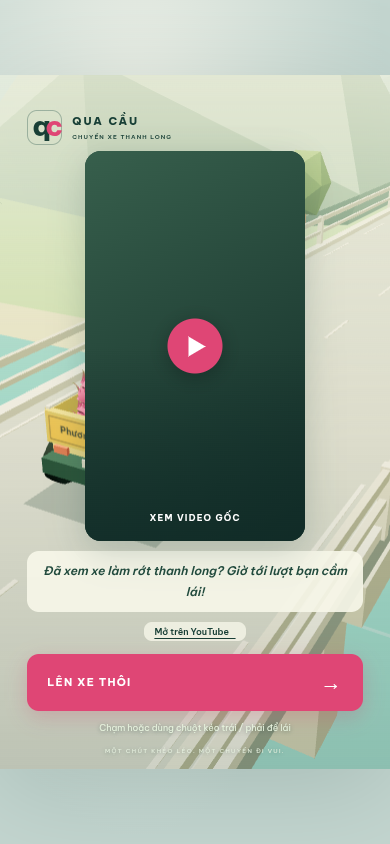
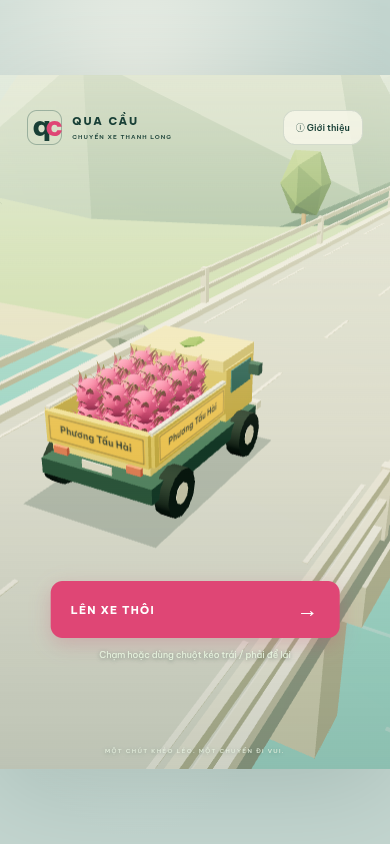
Move video to an about screen and clear the home view

diff --git a/src/main.ts b/src/main.ts
@@ -422,11 +422,27 @@ function resetInput() {
   input.left=input.right=false;suppressClick ||= !!drag;const pointer=drag?.id;drag=undefined;
   if(pointer!==undefined&&$('game').hasPointerCapture(pointer))$('game').releasePointerCapture(pointer);
 }
+let showingAbout=false;
+function setAbout(open: boolean) {
+  if(mode!=='intro')return;
+  showingAbout=open;
+  if(!open)stopIntroVideo();
+  $('game').classList.toggle('showing-about',open);
+  $('about-screen').classList.toggle('hidden',!open);
+  ['intro','topbar','footer'].forEach(id=>$(id).classList.toggle('hidden',open));
+  $(open?'about-back':'about-open').focus();
+}
+function leaveAbout() {
+  stopIntroVideo();showingAbout=false;
+  $('game').classList.remove('showing-about');
+  $('about-screen').classList.add('hidden');
+  $('topbar').classList.remove('hidden');
+}
 function stopIntroVideo() {
   $('video-card').querySelector('iframe')?.remove();$('video-play').classList.remove('hidden');
 }
 function playIntroVideo() {
-  if(mode!=='intro'||$('video-card').querySelector('iframe'))return;
+  if(mode!=='intro'||!showingAbout||$('video-card').querySelector('iframe'))return;
   const frame=document.createElement('iframe');
   frame.src='https://www.youtube-nocookie.com/embed/m5MuKcskVaU?autoplay=1&playsinline=1&rel=0';
   frame.title='Video xe chở thanh long';frame.allow='autoplay; encrypted-media; picture-in-picture; fullscreen';
@@ -435,8 +451,8 @@ function playIntroVideo() {
 }
 function startGame() {
   if(!ready) return;
-  stopIntroVideo();resetPhysics(); mode='playing';
-  ['intro','end-screen','pause-screen','footer'].forEach(id=>$(id).classList.add('hidden'));
+  leaveAbout();resetPhysics(); mode='playing';
+  ['intro','about-open','end-screen','pause-screen','footer'].forEach(id=>$(id).classList.add('hidden'));
   ['hud','controls','pause'].forEach(id=>$(id).classList.remove('hidden'));
   camera.position.set(0,6.8,10.7); camera.lookAt(0,.7,-7);
   void audio.unlock().then(()=>audio.setRunning(mode==='playing'));
@@ -463,8 +479,8 @@ function finish(arrived: boolean) {
   $('again').focus();
 }
 function showHome() {
-  resetPhysics(); mode='intro'; audio.setRunning(false); ['end-screen','pause-screen','hud','controls','pause'].forEach(id=>$(id).classList.add('hidden'));
-  ['intro','footer'].forEach(id=>$(id).classList.remove('hidden')); $('start').focus();
+  leaveAbout();resetPhysics(); mode='intro'; audio.setRunning(false); ['end-screen','pause-screen','hud','controls','pause'].forEach(id=>$(id).classList.add('hidden'));
+  ['intro','about-open','footer'].forEach(id=>$(id).classList.remove('hidden')); $('start').focus();
 }
 function bindControls() {
   const surface=$('game');
@@ -484,6 +500,9 @@ function bindControls() {
   surface.addEventListener('contextmenu',e=>e.preventDefault());
   window.addEventListener('blur',()=>{resetInput();pauseGame();});
   document.addEventListener('visibilitychange',()=>{if(document.hidden)pauseGame();});
+  $('about-open').addEventListener('click',()=>setAbout(true));
+  $('about-back').addEventListener('click',()=>setAbout(false));
+  $('about-start').addEventListener('click',startGame);
   $('video-play').addEventListener('click',playIntroVideo);
   const posterImage=$('video-play').querySelector('img')!;
   posterImage.addEventListener('error',()=>posterImage.classList.add('hidden'));
@@ -545,7 +564,7 @@ async function init() {
     await RAPIER.init(); world=new RAPIER.World({x:0,y:-9.81,z:0}); world.timestep=STEP;
     makeBackdrop();makeBridge();batchStatic(art);makeTruck();addTruckLettering();batchStatic(truck);buildObstacles();makeFruitBatch();resetPhysics();bindControls();
     new ResizeObserver(resize).observe($('game')); resize();
-    ready=true; $('start').removeAttribute('disabled'); $('start').innerHTML='<span>LÊN XE THÔI</span><span>→</span>';
+    ready=true; $('about-start').removeAttribute('disabled'); $('start').removeAttribute('disabled'); $('start').innerHTML='<span>LÊN XE THÔI</span><span>→</span>';
     animate();
     // Read-only development diagnostics used by the browser smoke tests.
     if(import.meta.env.DEV) Object.defineProperty(window,'__game',{value:{state:()=>({drawCalls:renderer.info.render.calls,triangles:renderer.info.render.triangles,frameMs,pixelRatio,renderAlpha,simulationSteps,turnJolts,dragging:!!drag,render:{...renderDiagnostics},audio:audio.status(),animals:obstacles.filter(o=>o.animal).map(o=>({kind:o.animal,phase:o.phase,x:o.x,z:o.z,hit:o.hit})),obstacles:obstacles.map(o=>({x:o.x,z:o.z,hit:o.hit,animal:o.animal,phase:o.phase})),mode,x,z,vx,speed,cargo:retained,elapsed,fruitCount:fruits.length,obstaclesHit:obstacles.filter(o=>o.hit).length,ready,input:{...input}})}});

diff --git a/src/style.css b/src/style.css
@@ -10,9 +10,10 @@
 
 html,body,#game{overscroll-behavior:none}#controls .drive-hint{padding:9px 12px;margin-bottom:10px}
 
-#intro{padding:19.5% 7% 6%;align-items:center;gap:10px}.video-card{position:relative;width:clamp(200px,26dvh,240px);height:auto;aspect-ratio:9/16;flex-shrink:0;max-width:100%;border-radius:16px;overflow:hidden;background:#183f36;box-shadow:0 10px 35px #143c3833;pointer-events:auto}.video-poster{position:absolute;inset:0;width:100%;height:100%;padding:0;background:linear-gradient(150deg,#375f4c,#122c27);color:white}.video-poster img{position:absolute;inset:0;width:100%;height:100%;object-fit:cover}.video-poster::after{content:'';position:absolute;inset:0;background:linear-gradient(transparent 50%,#102b27b3)}.video-play-icon{position:absolute;z-index:1;top:50%;left:50%;transform:translate(-50%,-50%);display:grid;place-items:center;width:55px;height:55px;border-radius:50%;background:#df4675;font-size:23px;box-shadow:0 4px 20px #0004}.video-play-label{position:absolute;z-index:1;bottom:18px;left:0;right:0;font-size:9px;font-weight:700;letter-spacing:1.2px}.video-card iframe{width:100%;height:100%;border:0;position:absolute;inset:0}.video-caption{font-size:12px;font-weight:600;line-height:1.7;text-align:center;background:#f7f7e9e8;padding:10px 12px;border-radius:12px;margin:0;width:100%;color:#214a3d}.video-link{pointer-events:auto;color:#183f36;font-size:9px;font-weight:600;text-underline-offset:3px;background:#f7f7e9c9;padding:4px 10px;border-radius:8px}.intro-bottom{width:100%;margin-top:auto}.input-hint{font-size:9px;margin:10px 0 10px}@media(max-height:650px){#intro{gap:6px}.video-caption{font-size:10px;padding:7px 9px}.input-hint{font-size:8px;margin:8px 0}}
+#intro{padding:0}.intro-bottom{position:absolute;top:73%;left:50%;transform:translateX(-50%);width:74%;margin:0}.about-button{background:#f7f7e9d9;color:var(--green);border:1px solid #214f4526;border-radius:12px;padding:10px 12px;font-size:9px;font-weight:600;white-space:nowrap}#game.showing-about{touch-action:pan-y}#about-screen{position:absolute;inset:0;z-index:5;overflow-y:auto;touch-action:pan-y;background:linear-gradient(155deg,#edf2e5,#cfe6e0);padding:5% 7% 7%;scrollbar-width:thin}.about-header{position:sticky;top:0;z-index:2;padding-bottom:10px;background:#e5eee4}.about-content{display:flex;flex-direction:column;align-items:center;gap:10px}.about-content .primary-button{width:86%;margin-top:4px}.video-card{position:relative;width:clamp(200px,26dvh,240px);height:auto;aspect-ratio:9/16;flex-shrink:0;max-width:100%;border-radius:16px;overflow:hidden;background:#183f36;box-shadow:0 10px 35px #143c3833;pointer-events:auto}.video-poster{position:absolute;inset:0;width:100%;height:100%;padding:0;background:linear-gradient(150deg,#375f4c,#122c27);color:white}.video-poster img{position:absolute;inset:0;width:100%;height:100%;object-fit:cover}.video-poster::after{content:'';position:absolute;inset:0;background:linear-gradient(transparent 50%,#102b27b3)}.video-play-icon{position:absolute;z-index:1;top:50%;left:50%;transform:translate(-50%,-50%);display:grid;place-items:center;width:55px;height:55px;border-radius:50%;background:#df4675;font-size:23px;box-shadow:0 4px 20px #0004}.video-play-label{position:absolute;z-index:1;bottom:18px;left:0;right:0;font-size:9px;font-weight:700;letter-spacing:1.2px}.video-card iframe{width:100%;height:100%;border:0;position:absolute;inset:0}.video-caption{font-size:12px;font-weight:600;line-height:1.7;text-align:center;background:#f7f7e9e8;padding:10px 12px;border-radius:12px;margin:0;width:100%;color:#214a3d}.video-link{pointer-events:auto;color:#183f36;font-size:9px;font-weight:600;text-underline-offset:3px;background:#f7f7e9c9;padding:4px 10px;border-radius:8px}.input-hint{font-size:9px;margin:10px 0 10px}@media(max-height:650px){.about-content{gap:8px}.video-caption{font-size:10px;padding:7px 9px}.input-hint{font-size:8px;margin:8px 0}}
 
 .video-caption em{font-synthesis:style}
 
-@media(max-height:600px){.video-card{width:200px;height:280px;aspect-ratio:auto}}
-@media(max-height:600px){#intro{padding-top:22%}}@media(max-height:520px){.video-card{height:220px}}
+
+.about-content .video-link{padding:10px 14px;border:1px solid #214f4526;font-size:10px;text-decoration:none;border-radius:12px}
+@media(max-width:320px){.topbar{gap:5px}.brand{gap:6px;font-size:10px;letter-spacing:1px}.brand small{letter-spacing:.6px}.about-button{padding:9px 8px;font-size:8px}}

diff --git a/index.html b/index.html
@@ -12,8 +12,9 @@
   <main id="game" aria-label="Game 3D Chuyến xe thanh long">
     <div id="canvas"></div>
     <div class="vignette"></div>
-    <header class="topbar">
+    <header id="topbar" class="topbar">
       <a class="brand" href="./" aria-label="Qua cầu — trang đầu"><span class="brand-mark">q<span>c</span></span><span>QUA CẦU<small>CHUYẾN XE THANH LONG</small></span></a>
+      <button id="about-open" class="about-button">ⓘ Giới thiệu</button>
       <button id="pause" class="icon-button hidden" aria-label="Tạm dừng"><svg width="12" height="14" viewBox="0 0 12 14" aria-hidden="true"><rect width="4" height="14" rx="1" fill="currentColor"/><rect x="8" width="4" height="14" rx="1" fill="currentColor"/></svg></button>
     </header>
     <section id="hud" class="hidden" aria-label="Trạng thái chuyến xe">
@@ -22,6 +23,14 @@
     </section>
     <div id="impact" aria-live="polite"></div>
     <section id="intro" class="screen">
+      <div class="intro-bottom">
+        <button id="start" class="primary-button" disabled><span>ĐANG XẾP HÀNG…</span><span>→</span></button>
+        <p class="input-hint">Chạm hoặc dùng chuột kéo trái / phải để lái</p>
+      </div>
+    </section>
+    <section id="about-screen" class="hidden" aria-label="Giới thiệu">
+      <div class="about-header"><button id="about-back" class="about-button">← Quay lại</button></div>
+      <div class="about-content">
       <div class="video-card" id="video-card">
         <button id="video-play" class="video-poster" aria-label="Xem video xe chở thanh long">
           <img src="https://i.ytimg.com/vi/m5MuKcskVaU/hqdefault.jpg" alt="Video xe chở thanh long làm rơi hàng" loading="lazy" referrerpolicy="strict-origin-when-cross-origin" />
@@ -31,9 +40,7 @@
       </div>
       <p class="video-caption"><em>Đã xem xe làm rớt thanh long? Giờ tới lượt bạn cầm lái!</em></p>
       <a class="video-link" href="https://www.youtube.com/shorts/m5MuKcskVaU" target="_blank" rel="noopener noreferrer">Mở trên YouTube ↗</a>
-      <div class="intro-bottom">
-        <button id="start" class="primary-button" disabled><span>ĐANG XẾP HÀNG…</span><span>→</span></button>
-        <p class="input-hint">Chạm hoặc dùng chuột kéo trái / phải để lái</p>
+        <button id="about-start" class="primary-button" disabled><span>CHƠI NGAY</span><span>→</span></button>
       </div>
     </section>
     <section id="controls" class="hidden" aria-label="Điều khiển">

diff --git a/README.md b/README.md
@@ -15,7 +15,7 @@ Mini game 3D chạy trên web, ưu tiên màn hình dọc 9:16. Lái xe chở 24
 
 ## Video trên màn hình đầu
 
-Video Shorts `m5MuKcskVaU` được nhúng trong khung dọc. Ban đầu chỉ tải ảnh thumbnail; bấm **Xem video gốc** mới tạo iframe YouTube (privacy-enhanced domain). Bấm **Lên xe** sẽ gỡ iframe để dừng video/âm thanh và giải phóng tài nguyên. Có link mở trực tiếp trên YouTube. Game chỉ có một màn; nút kết thúc ghi **Chơi lại**.
+Màn hình chính giữ cảnh xe và cầu, với nút **Lên xe thôi** được đưa cao hơn và thu hẹp. Nút **ⓘ Giới thiệu** mở lớp giao diện riêng, không tải lại cảnh 3D hay thay đổi gameplay. Video Shorts `m5MuKcskVaU` được nhúng trong khung dọc 9:16 trên màn hình Giới thiệu; màn hình nhỏ có thể cuộn. **← Quay lại** trở về màn hình chính; **Chơi ngay →** bắt đầu game. Ban đầu chỉ tải ảnh thumbnail; bấm **Xem video gốc** mới tạo iframe YouTube (privacy-enhanced domain). Bấm **Quay lại**, **Chơi ngay** hoặc **Lên xe** sẽ gỡ iframe để dừng video/âm thanh và giải phóng tài nguyên. Có link mở trực tiếp trên YouTube. Game chỉ có một màn; nút kết thúc ghi **Chơi lại**.
 
 Kiểm tra giao diện/nhúng bằng `CHROMIUM_PATH=/usr/bin/chromium npm run test:intro` khi dev server đang chạy. Bài kiểm tra dùng fixture cho player bên ngoài, kiểm tra URL, tỷ lệ dọc, caption, teardown và chuột; không xác minh streaming thật từ YouTube. Cloud cần cho phép `www.youtube.com`, `www.youtube-nocookie.com`, `i.ytimg.com`, `s.ytimg.com`, `www.gstatic.com` và `*.googlevideo.com` để kiểm tra phát video thật. Các miền đã được lưu vào bản nháp cấu hình; cần review/save/publish để áp dụng. Việc phát còn phụ thuộc quyền nhúng của video trên YouTube.
 
